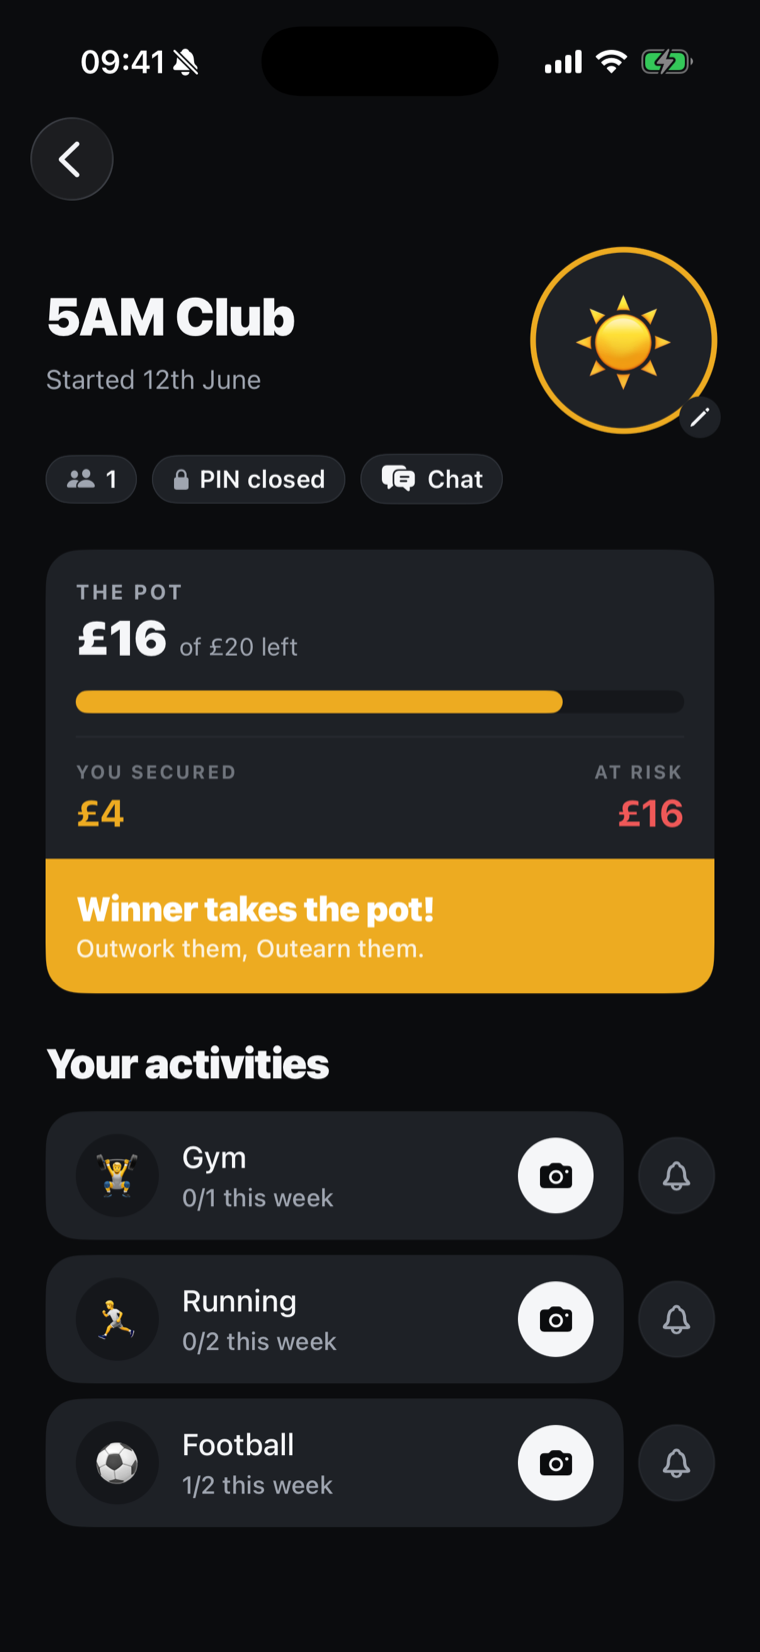
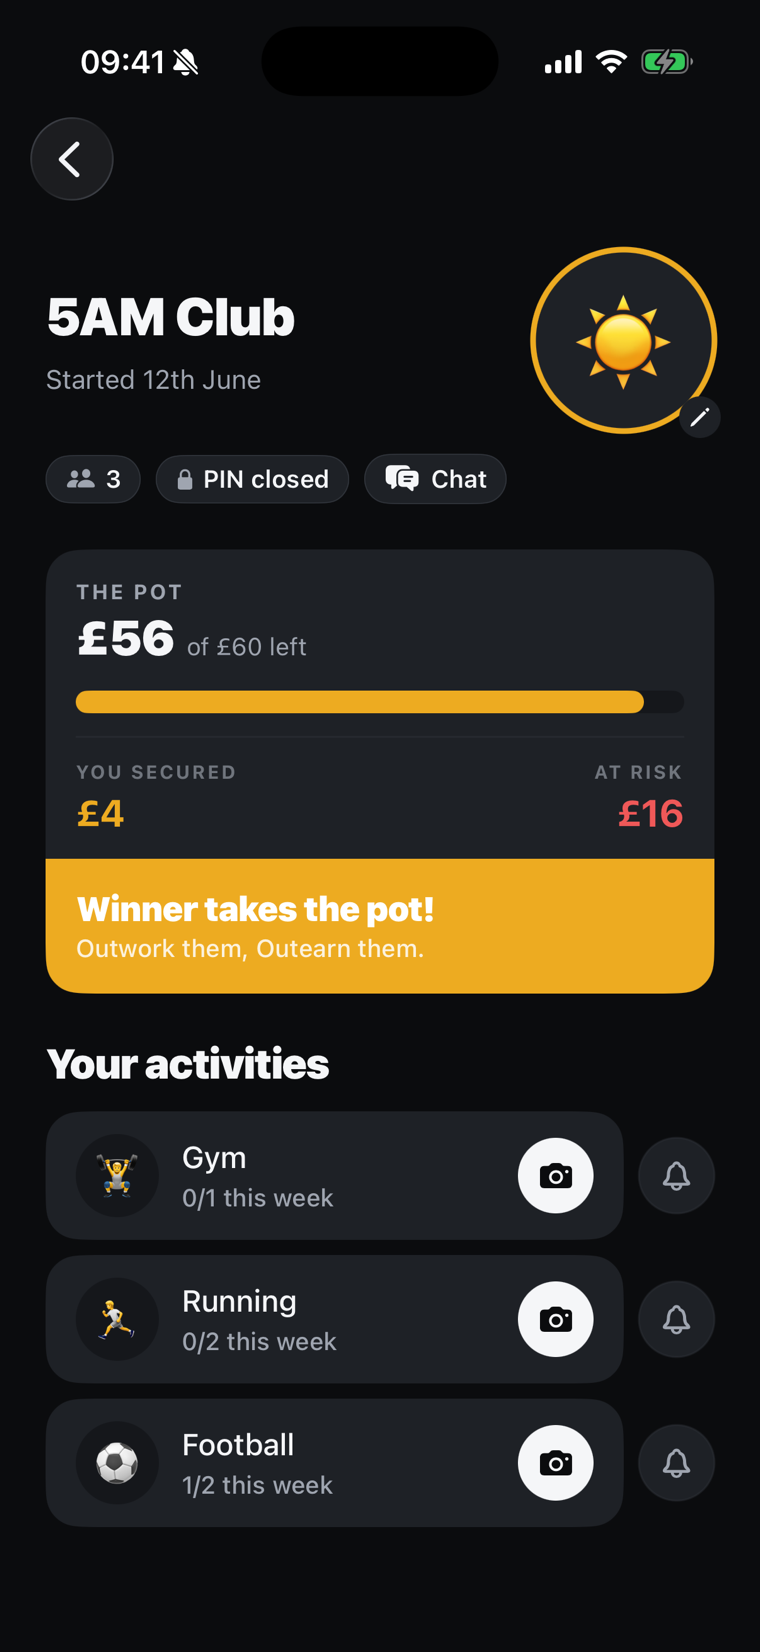
Update Friends mode-card screenshot to 3-member 5AM Club

Changed region(s): [[0.1513, 0.2778, 0.6658, 0.3087], [0.1211, 0.3705, 0.3934, 0.4013], [0.7263, 0.4013, 0.8474, 0.4322]]

diff --git a/index.html b/index.html
@@ -55,7 +55,7 @@
       <h2>Compete or go solo.</h2>
       <div class="modes">
         <div class="mode">
-          <div class="mode-shot"><img src="img/mode-friends.png?v=2" alt="A friends hustle showing the pot and the winner"></div>
+          <div class="mode-shot"><img src="img/mode-friends.png?v=3" alt="A friends hustle showing the pot and the winner"></div>
           <span class="mode-tag tag-gold">Friends</span>
           <h3>Beat your mates</h3>
           <p>Create a hustle, share a PIN, everyone deposits the same. Prove each activity with a live photo, share the laughs in the group chat, and the group flags any fakes. The most consistent finisher takes the whole pot.</p>
